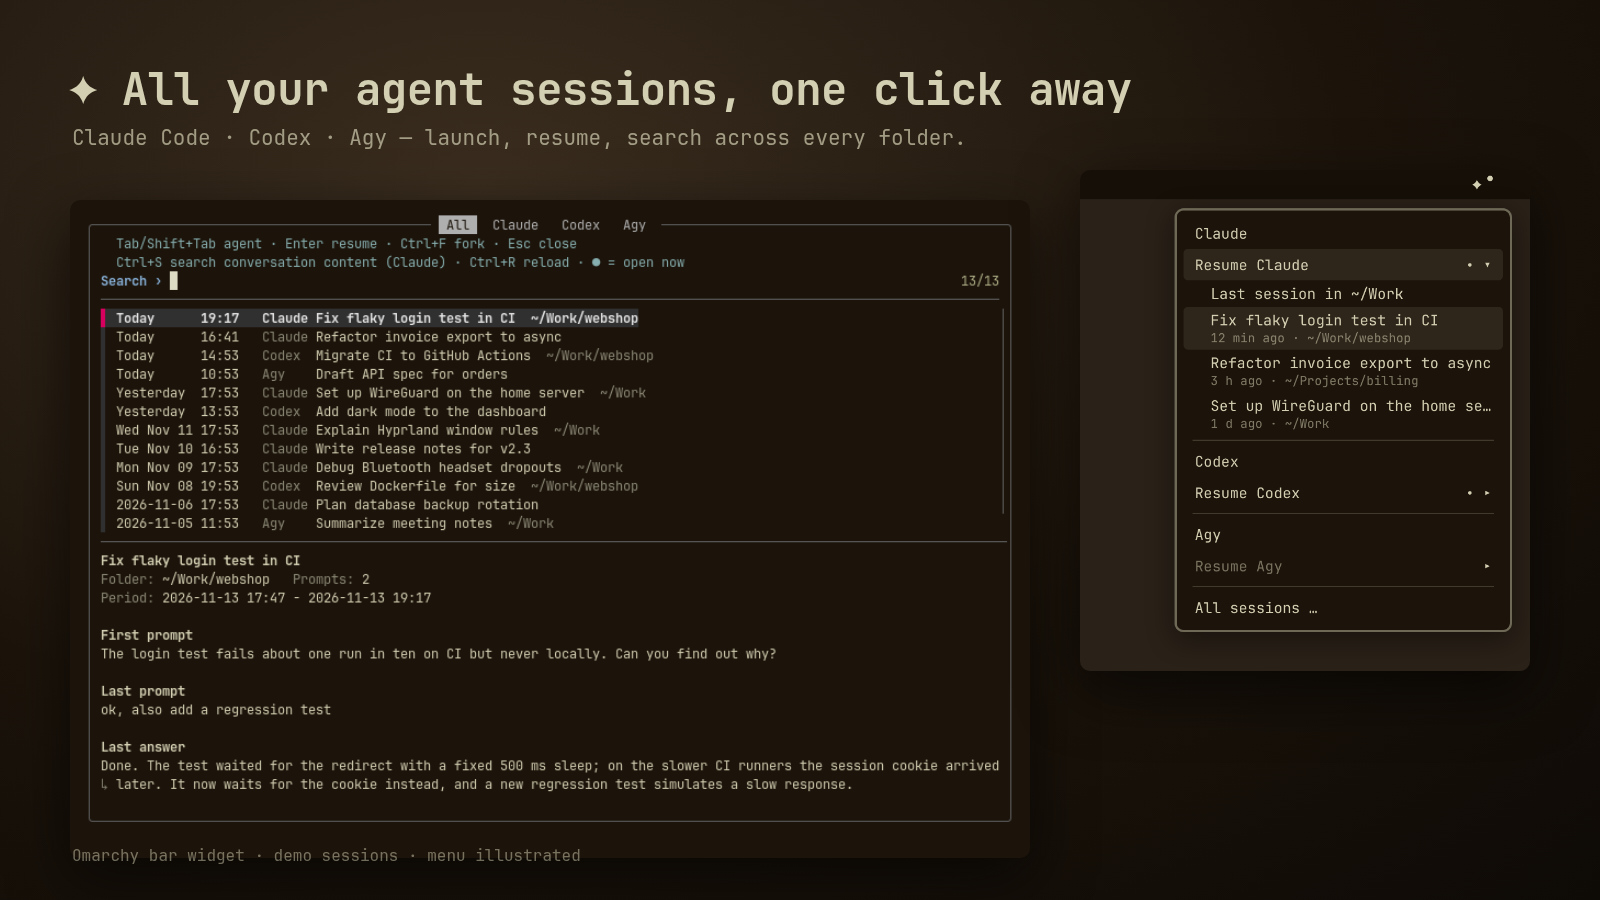
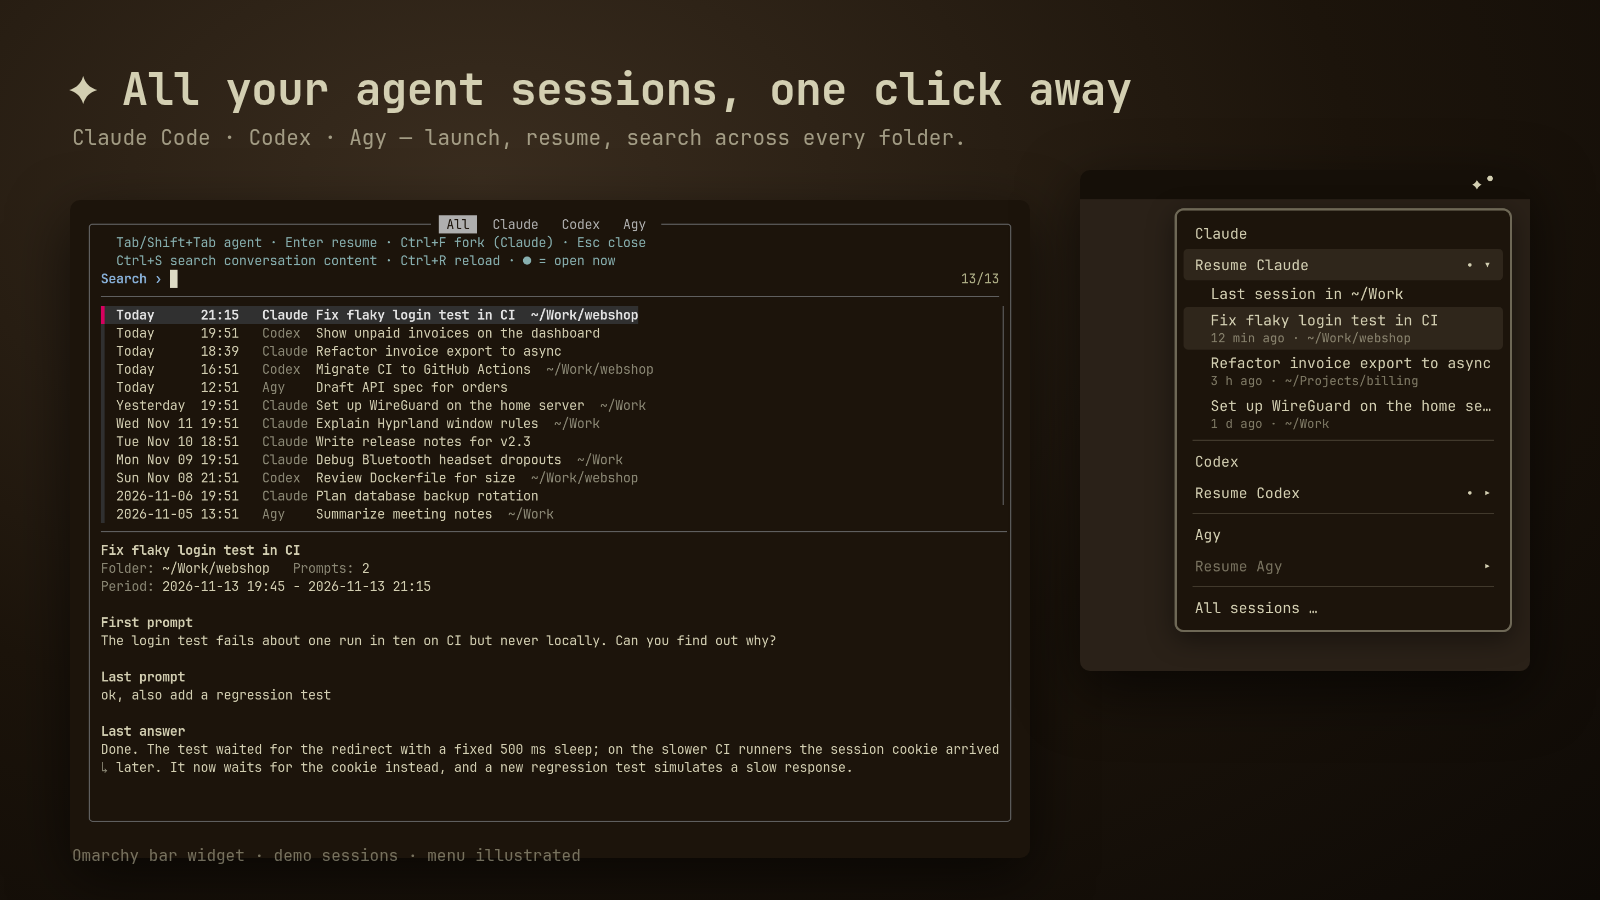
Screenshots for 1.6.0, demo generator in the repo
- window-all.png, window-search.png and preview.png retaken: new header
  (Ctrl+S without "(Claude)", fork marked as Claude-only); the content
  search now shows hits from Codex, Claude and Agy with a Codex preview.
- docs/screenshots/make-demo-home.py: invented demo sessions for all
  three agents (Codex rollouts and Agy transcripts included), so the
  screenshots can be reproduced.

Claude-Session: https://claude.ai/code/session_01WmSXZ4ExaSTnSMz6G88fX6

Changed region(s): [[0.0625, 0.2489, 0.625, 0.9022]]

diff --git a/docs/screenshots/make-demo-home.py b/docs/screenshots/make-demo-home.py
@@ -1,0 +1,86 @@
+"""Invented demo sessions for the README screenshots (no real content).
+
+Usage: python3 docs/screenshots/make-demo-home.py <empty demo home>
+Then start the window with HOME, CLAUDE_CONFIG_DIR and XDG_CACHE_HOME
+pointing into that demo home (see README, Development).
+"""
+import json, os, sys, time
+from datetime import datetime, timedelta, timezone
+from pathlib import Path
+
+H = Path(sys.argv[1]); now = datetime.now().astimezone()
+def iso(dt): return dt.astimezone(timezone.utc).isoformat().replace("+00:00", "Z")
+def z(**kw): return json.dumps(kw, separators=(",", ":")) + "\n"
+ids = iter(f"{i:08x}-1111-4111-8111-{i:012x}" for i in range(1, 99))
+
+claude = [  # (Titel, Ordner, vor Stunden, erste, letzte, Antwort)
+ ("Fix flaky login test in CI", "Work/webshop", 0.6, "The login test fails about one run in ten on CI but never locally. Can you find out why?",
+  "ok, also add a regression test", "Done. The test waited for the redirect with a fixed 500 ms sleep; on the slower CI runners the session cookie arrived later. It now waits for the cookie instead, and a new regression test simulates a slow response."),
+ ("Refactor invoice export to async", "Projects/billing", 3.2, "Our invoice export blocks the web worker for minutes. Let's move it to a background job.",
+  "looks good, write the migration notes", "Migration notes are in docs/export.md: the endpoint now returns a job id, the PDF arrives by mail, old links keep working for 30 days."),
+ ("Set up WireGuard on the home server", "Work", 26, "I want to reach my home server from the laptop when I'm travelling.",
+  "and only route the home network through it", "Set AllowedIPs to 192.168.1.0/24 only; everything else keeps using your normal connection."),
+ ("Explain Hyprland window rules", "Work", 50, "How do window rules work in Hyprland 0.56 with the Lua config?", "can a rule match the title?", "Yes: match = { title = \"^Picture-in-Picture$\" }."),
+ ("Write release notes for v2.3", "Projects/billing", 75, "Draft release notes for v2.3 from the merged PRs.", "shorter please", "Shortened to five bullet points."),
+ ("Debug Bluetooth headset dropouts", "Work", 98, "My headset drops out every few minutes.", "it still happens on battery", "Power saving on the USB adapter is the likely cause; the udev rule keeps it awake."),
+ ("Plan database backup rotation", "Projects/billing", 170, "How long should we keep nightly database backups?", "and monthly ones?", "Keep 14 nightly, 12 monthly and the yearly ones."),
+ ("Translate onboarding guide", "Work/handbook", 260, "Translate the onboarding guide into German.", "keep the code blocks", "Done, code blocks unchanged."),
+]
+for title, rel, hours, first, last, answer in claude:
+    sid = next(ids); cwd = str(H / rel); Path(cwd).mkdir(parents=True, exist_ok=True)
+    t1 = now - timedelta(hours=hours + 1.5); t2 = now - timedelta(hours=hours)
+    d = H / ".claude" / "projects" / cwd.replace("/", "-"); d.mkdir(parents=True, exist_ok=True)
+    lines = [z(type="user", cwd=cwd, timestamp=iso(t1), message={"role": "user", "content": first}),
+             z(type="assistant", cwd=cwd, timestamp=iso(t1 + timedelta(minutes=2)),
+               message={"role": "assistant", "content": [{"type": "text", "text": "Looking into it."}]}),
+             z(type="ai-title", aiTitle=title),
+             z(type="user", cwd=cwd, timestamp=iso(t2 - timedelta(minutes=3)), message={"role": "user", "content": last}),
+             z(type="assistant", cwd=cwd, timestamp=iso(t2), message={"role": "assistant", "content": [{"type": "text", "text": answer}]})]
+    (d / f"{sid}.jsonl").write_text("".join(lines))
+
+codex = [  # (Titel, Ordner, vor Stunden, Fragen, Endantwort)
+ ("Migrate CI to GitHub Actions", "Work/webshop", 5, ["Move our CI from Jenkins to GitHub Actions, same steps."],
+  "The workflow in .github/workflows/ci.yml runs lint, tests and the Docker build; Jenkins can be switched off."),
+ ("Show unpaid invoices on the dashboard", "Projects/billing", 2.0,
+  ["The dashboard should list unpaid invoices older than 30 days.", "sort them by amount, largest first"],
+  "Added an 'Overdue invoices' card: unpaid invoices older than 30 days, sorted by amount, with a link to each invoice."),
+ ("Review Dockerfile for size", "Work/webshop", 120, ["Why is our Docker image 1.2 GB?"],
+  "A multi-stage build drops the compilers; the image is now 180 MB.")]
+idx = []
+for i, (title, rel, hours, fragen, endantwort) in enumerate(codex):
+    cid = f"019a{i:04x}-aaaa-7bbb-8ccc-{i:012x}"; cwd = str(H / rel); Path(cwd).mkdir(parents=True, exist_ok=True)
+    d = H / ".codex" / "sessions" / "2026" / "11" / f"{10 + i:02d}"; d.mkdir(parents=True, exist_ok=True)
+    f = d / f"rollout-2026-11-{10 + i:02d}T10-00-00-{cid}.jsonl"
+    t0 = now - timedelta(hours=hours + 1)
+    zeilen = [z(timestamp=iso(t0), type="session_meta", payload={"id": cid, "cwd": cwd, "thread_source": "user"})]
+    for k, frage in enumerate(fragen):
+        zeilen.append(z(timestamp=iso(t0 + timedelta(minutes=10 * k)), type="event_msg", payload={
+            "type": "item_completed", "item": {"type": "UserMessage", "content": [{"type": "text", "text": frage}]}}))
+        zeilen.append(z(timestamp=iso(t0 + timedelta(minutes=10 * k + 2)), type="event_msg", payload={
+            "type": "item_completed", "item": {"type": "AgentMessage", "phase": "commentary",
+                                               "content": [{"type": "Text", "text": "Checking the code."}]}}))
+    zeilen.append(z(timestamp=iso(now - timedelta(hours=hours)), type="event_msg", payload={
+        "type": "item_completed", "item": {"type": "AgentMessage", "phase": "final_answer",
+                                           "content": [{"type": "Text", "text": endantwort}]}}))
+    f.write_text("".join(zeilen))
+    t = (now - timedelta(hours=hours)).timestamp(); os.utime(f, (t, t))
+    idx.append(z(id=cid, thread_name=title))
+(H / ".codex" / "session_index.jsonl").write_text("".join(idx))
+
+agy = {}
+for i, (title, rel, hours, frage, antwort) in enumerate([
+        ("Draft API spec for orders", "Projects/billing", 9, "Draft an OpenAPI spec for orders and their invoices.",
+         "Draft in api/orders.yaml: orders, order items and a read-only invoices endpoint per order."),
+        ("Summarize meeting notes", "Work", 200, "Summarize the notes from Monday's planning meeting.",
+         "Three decisions, two open questions, owners listed at the end.")]):
+    cid = f"7d3e{i:04x}-cccc-4ddd-8eee-{i:012x}"; cwd = str(H / rel)
+    agy[cid] = {"summary": {"Title": title, "UpdatedAt": iso(now - timedelta(hours=hours)), "WorkspaceURIs": ["file://" + cwd]}}
+    lg = H / ".gemini" / "antigravity-cli" / "brain" / cid / ".system_generated" / "logs"; lg.mkdir(parents=True, exist_ok=True)
+    t = now - timedelta(hours=hours)
+    (lg / "transcript_full.jsonl").write_text(
+        z(type="USER_INPUT", source="USER_EXPLICIT", created_at=iso(t - timedelta(minutes=20)),
+          content=f"<USER_REQUEST>\n{frage}\n</USER_REQUEST>\n<ADDITIONAL_METADATA>demo</ADDITIONAL_METADATA>")
+        + z(type="PLANNER_RESPONSE", source="MODEL", created_at=iso(t), content=antwort, tool_calls=[]))
+m = H / ".gemini" / "antigravity-cli" / "cache"; m.mkdir(parents=True, exist_ok=True)
+(m / "conversation_metadata.json").write_text(json.dumps({"conversations": agy}))
+print("ok", H)

diff --git a/README.md b/README.md
@@ -122,7 +122,7 @@ python3 -m unittest discover -s tests
 omarchy plugin validate .
 ```
 
-After QML changes: `omarchy restart shell`. Screenshots: invented demo sessions; the window via `omarchy-launch-tui --app-id=TUI.float env HOME=<demo> … bin/agent-sessions --lang en` and `grim`; `menu.html` and `hero.html` rendered with a headless Chromium.
+After QML changes: `omarchy restart shell`. Screenshots: invented demo sessions from `docs/screenshots/make-demo-home.py <demo-home>`; the window via `omarchy-launch-tui --app-id=TUI.float env HOME=<demo> … bin/agent-sessions --lang en` and `grim`; `menu.html` and `hero.html` rendered with a headless Chromium.
 
 ## Credits
 
